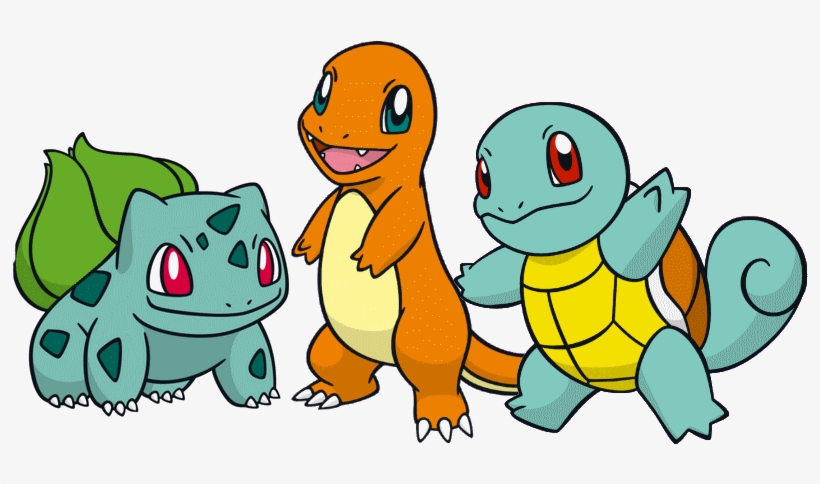
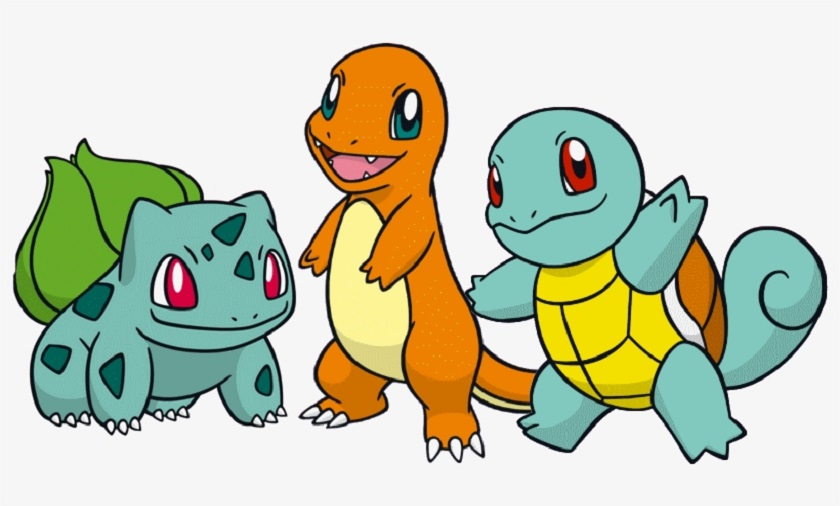
fixed aspect ratios for starters

diff --git a/index.html b/index.html
@@ -124,7 +124,7 @@
               <h3 class="text-center">Johto Region</h3>
               <div class="row">
                 <div class="col-lg-12 col-md-6 col-sm-12">
-                  <img src="./img/Gen2Starters.png" width="100%" height="100%">
+                  <img src="./img/Gen2Starters1.png" width="100%" height="100%">
                 </div>
                 <div class="col-lg-12 col-md-6 col-sm-12 d-flex flex-column justify-content-center align-items-center">  
                   <h4>Starter Pokemon</h4>
